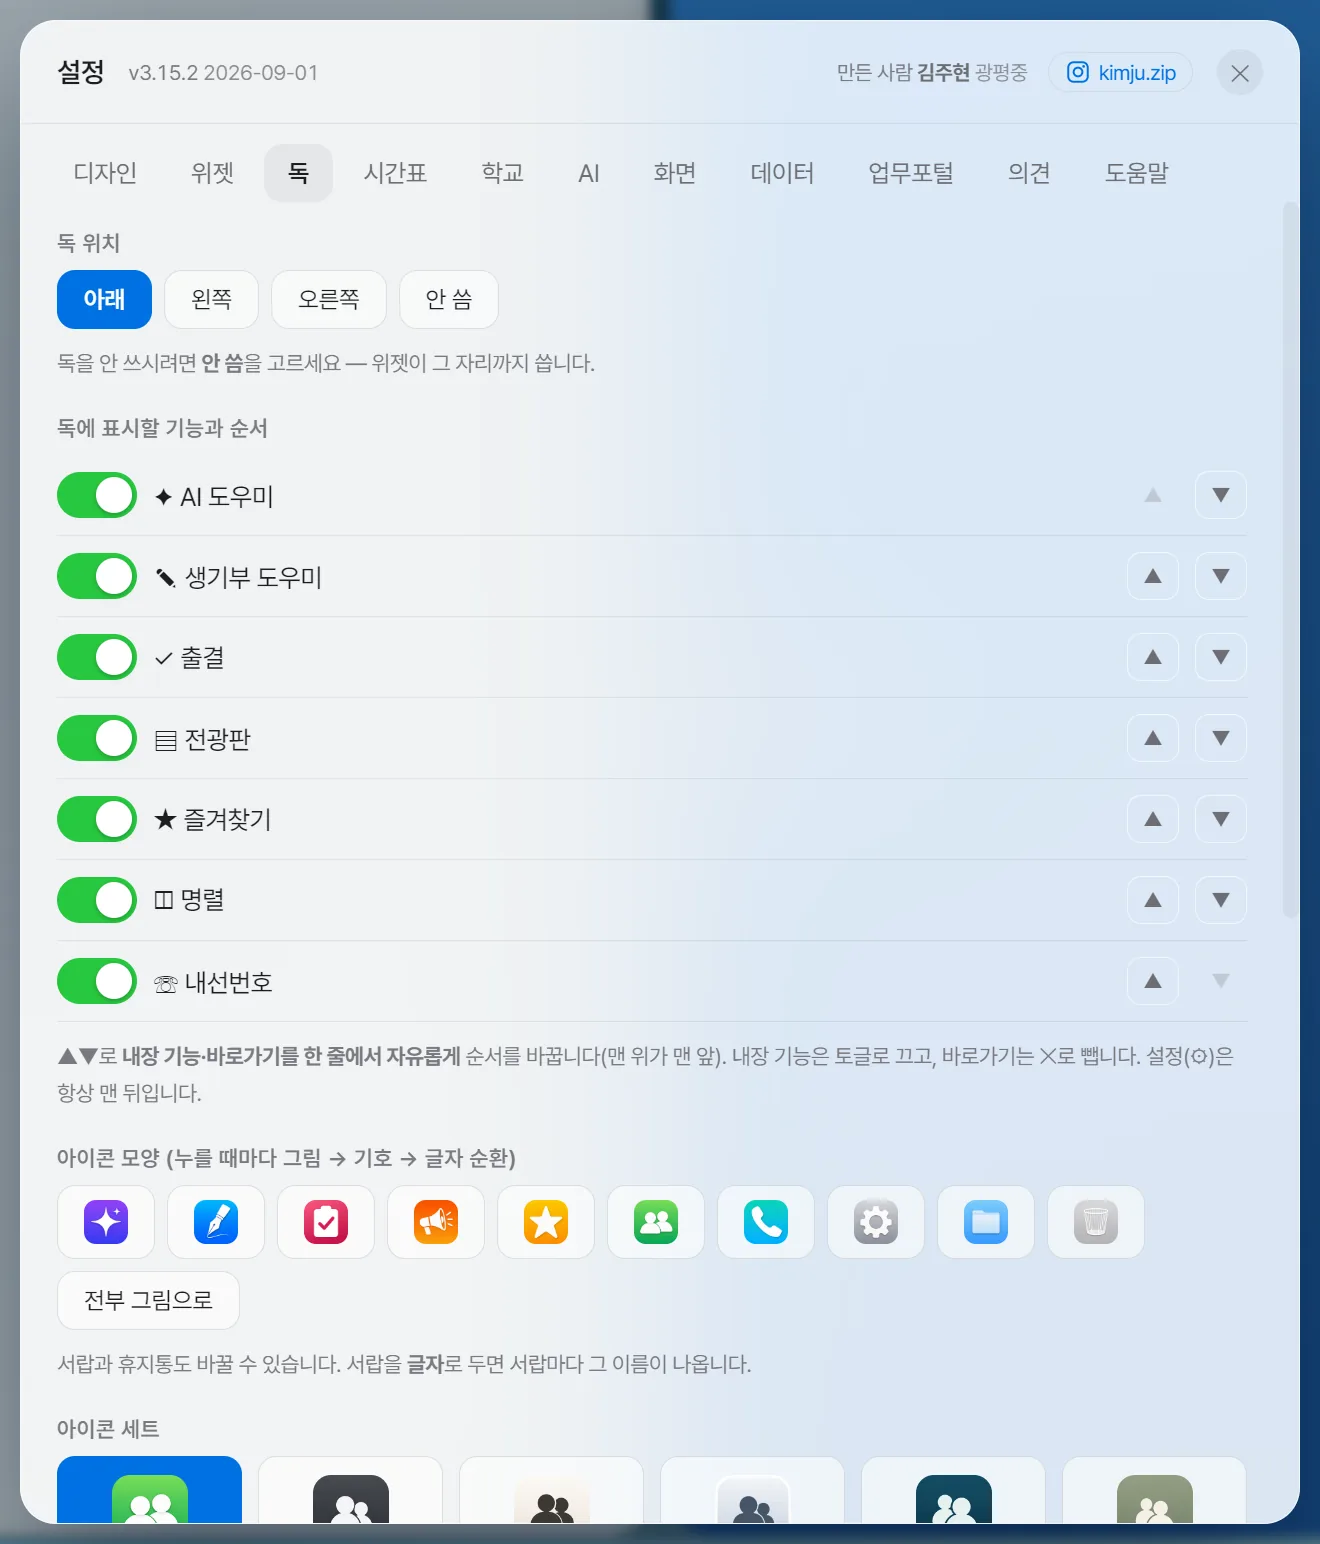
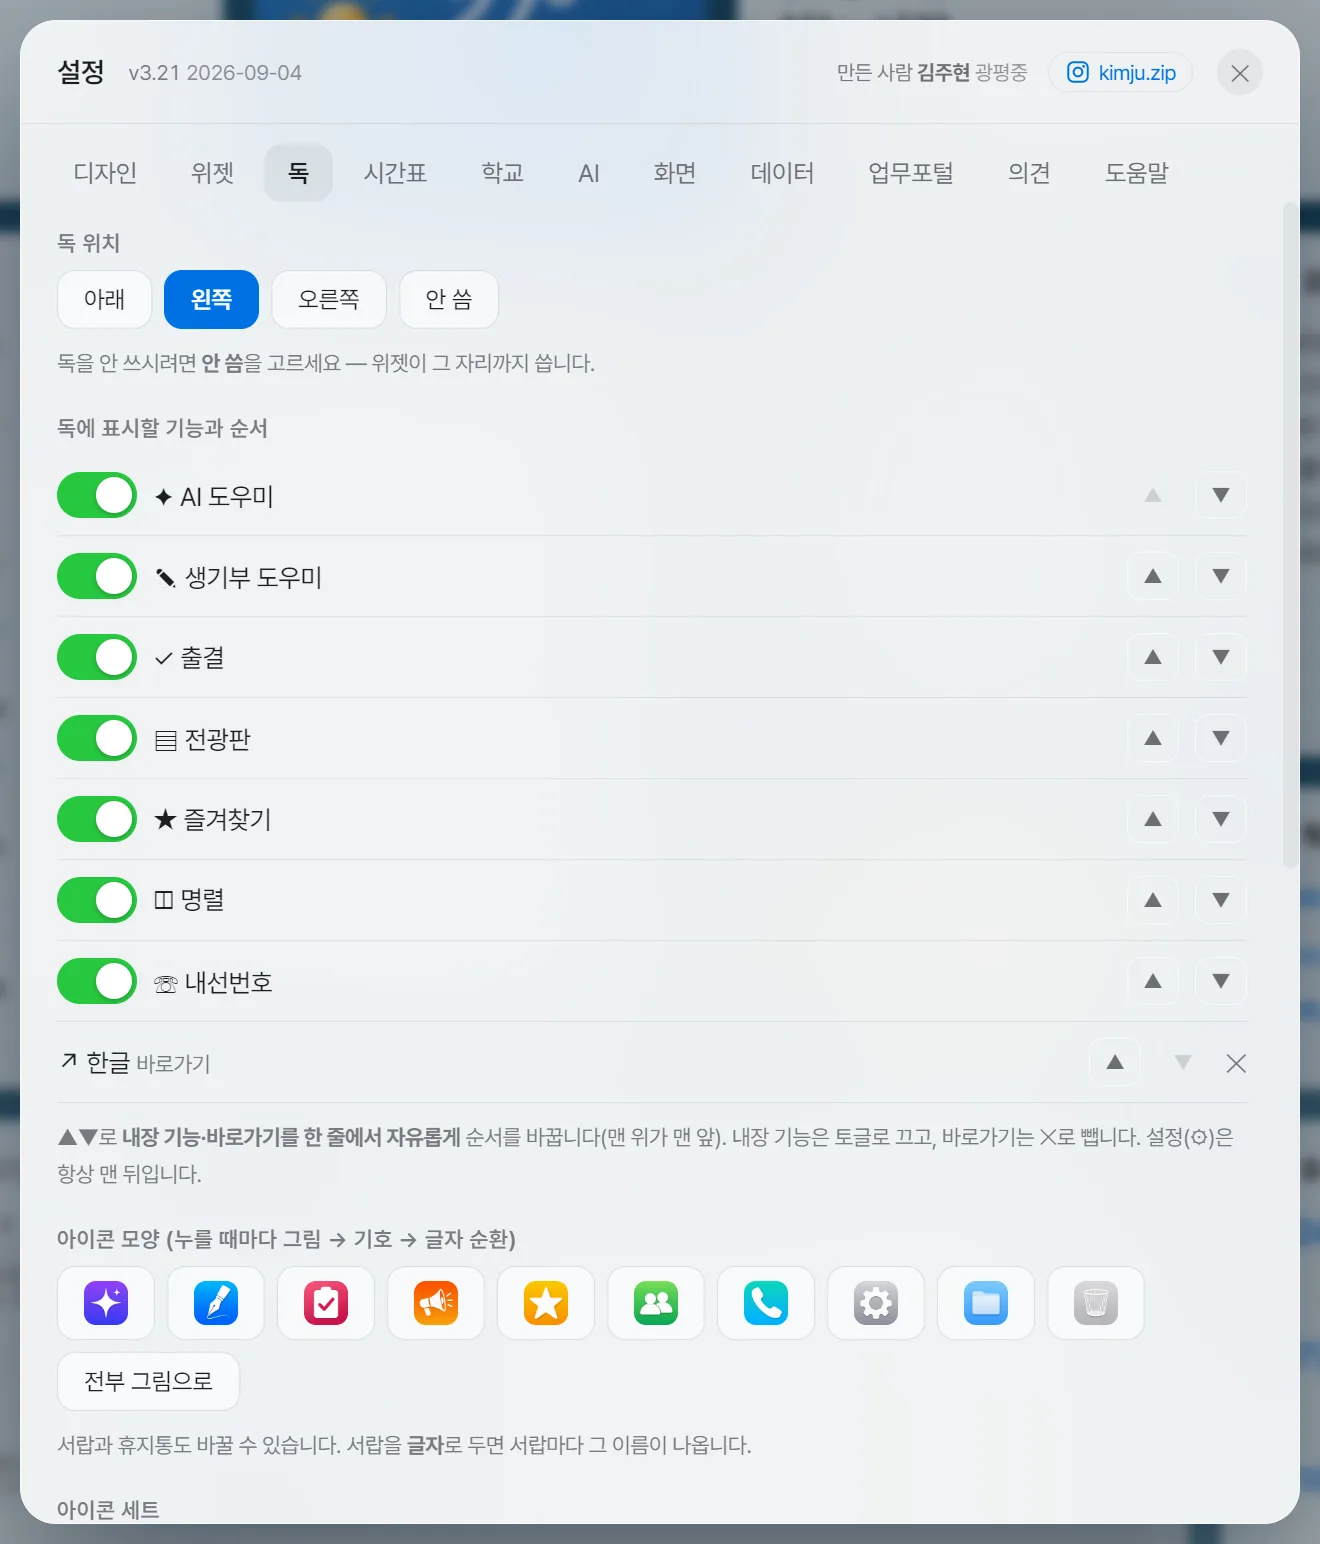
TD2 가이드 — 웨일 고침·새 설정 셋 추가, 설정 그림의 판 번호 갱신 (형님 지적)
일지를 두 줄로 줄이면서 **웨일 권한 창 고침을 빼 버렸다** — 다른 선생님 제보라
더 들어가야 하는 것이었다. 되살리고 «그 밖에» 한 줄도 넣었다.

· 업무포털 설명에 브라우저가 «크롬·엣지»로만 적혀 있었다 → **크롬·엣지·웨일**
· 「이 기능 있나요」에 새 설정 셋 — 시간표 칸에 배울 내용 함께 보기 · 과목이 다를 때
  어느 쪽을 앞세울지 · 진도를 안내문에서 채우기 (112개)
· 설정 그림 11장의 판 번호가 **v3.15.2로 굳어 있었다** — 캡처 하네스가 손으로 적어 둔
  값을 쓰고 있었다. package.json에서 읽게 고치고 다시 찍었다(v3.21 · 2026-09-04).

diff --git a/td2/index.html b/td2/index.html
@@ -514,6 +514,9 @@
               <div class="fx" data-k="시간표 적기 과목 입력 칸"><span class="fn">시간표 칸에 과목 적기</span><span class="fw">칸을 <b>클릭</b>하면 그 자리에서 입력칸이 열립니다(12자까지, 「1-3 체육」처럼)</span></div>
               <div class="fx" data-k="색칠 색깔 칸 우클릭 겸무 회의"><span class="fn">시간표 칸 색칠하기 <span class="ftag hid">숨은 자리</span></span><span class="fw">칸에 <b>우클릭</b> → 10가지 색. 겸무·전담·회의처럼 반으로 안 갈리는 시간을 눈에 띄게</span></div>
               <div class="fx" data-k="반별 색 자동 색깔 같은 반"><span class="fn">같은 반은 같은 색으로 <span class="ftag off">기본 꺼짐</span></span><span class="fw">설정 [시간표] → <b>반별 색상</b></span></div>
+              <div class="fx" data-k="주간학습안내 시간표에 함께 배울 내용 얹기"><span class="fn">시간표 칸에 배울 내용 함께 보기</span><span class="fw">설정 [시간표] → <b>주간학습안내 내용 함께 보기</b> — 안내문을 AI로 읽어 둔 주에만 나옵니다. <b>지금 이 시간</b> 카드에도 한 줄 뜹니다</span></div>
+              <div class="fx" data-k="과목이 다를 때 시간표 안내문 우선순위"><span class="fn">과목이 다를 때 어느 쪽을 앞세울지</span><span class="fw">설정 [시간표] → <b>└ 과목이 다를 때</b> — [시간표만 / 둘 다 보기 / 안내문 먼저]. 어느 쪽을 골라도 <b>시간표에 적어 둔 내용은 안 바뀝니다</b></span></div>
+              <div class="fx" data-k="진도 안내문에서 채우기 주간학습 차시"><span class="fn">진도를 안내문에서 채우기</span><span class="fw">진도 큰 창 → <b>📖 안내문에서 채우기</b> — 이미 적어 둔 칸은 건드리지 않고, 무엇을 채울지 보여 준 뒤에만 씁니다</span></div>
               <div class="fx" data-k="토요일 일요일 주말 수업 방과후"><span class="fn">주간 시간표에 토·일 칸 <span class="ftag off">기본 꺼짐</span></span><span class="fw">설정 [시간표] → 주말 수업(토요일 칸·일요일 칸을 따로 켭니다)</span></div>
               <div class="fx" data-k="오늘 시간표 세로 하루 크게"><span class="fn">오늘 시간표만 크게 <span class="ftag off">기본 꺼짐</span></span><span class="fw">설정 [위젯] → <b>오늘 시간표</b>를 켜세요 — 오늘 하루만 세로로 크게 폅니다(교시 시각 포함)</span></div>
               <div class="fx" data-k="교시 시각 쉬는 시간 시정 수기 직접"><span class="fn">교시 시각 직접 정하기</span><span class="fw">설정 [시간표] → 교시 시각 <b>[수기 입력]</b> — 쉬는 시간이 교시마다 다른 학교(1교시 뒤 15분, 2교시 뒤 10분)는 여기서 맞춥니다</span></div>
@@ -622,6 +625,8 @@
             <ul>
               <li><b>주간학습안내</b>(초등) — 매주 받는 안내문을 올려 두고 원본 그대로 보거나, AI가 표까지 읽어 <b>하루·주간·과목별</b>로 봅니다. 시간표·진도와도 이어집니다</li>
               <li><b>출결 카드</b> — 담임반 출결의 특이사항만 바탕화면에 늘 세웁니다</li>
+              <li><b>웨일</b>에서 업무포털에 들어갈 때마다 뜨던 <b>«다른 앱·서비스 액세스» 창</b>을 고쳤습니다 — 허용해도 다음번에 또 뜨던 문제입니다</li>
+              <li>그 밖에 — 새 버전 알림에 <b>**</b> 기호가 날것으로 보이던 것, 카드를 켜도 화면에 안 나타나던 것을 고쳤습니다</li>
             </ul>
           </div>
 
@@ -1881,12 +1886,12 @@
           <div><h2>업무포털 자동 로그인</h2><p>컴퓨터를 켜면 업무포털에 로그인된 창을 열어 둡니다. <b>쓰실 분만</b> 켜세요.</p></div>
         </div>
         <p class="body">설정 → <strong>[업무포털]</strong> 탭에서 켭니다. 켜 두면 컴퓨터를 켠 뒤
-          <strong>크롬(또는 엣지) 창이 하나 열리고</strong>, 인증서 로그인 → 비밀번호 입력까지 대신 해 둡니다.
+          <strong>크롬(또는 엣지·웨일) 창이 하나 열리고</strong>, 인증서 로그인 → 비밀번호 입력까지 대신 해 둡니다.
           끝나면 그 창은 그대로 두니 바로 업무 보시면 됩니다. <strong>기본은 꺼져 있습니다.</strong></p>
         <div class="steps">
           <div class="step"><h4>1. 켜기</h4><p>설정 → <strong>[업무포털]</strong> → 맨 위 스위치를 켭니다.</p></div>
           <div class="step"><h4>2. 어디에 로그인할지</h4><p><strong>나이스</strong> 또는 <strong>K-에듀파인</strong>을 고릅니다.</p></div>
-          <div class="step"><h4>3. 교육청 · 인증서</h4><p>교육청을 고르고, <strong>인증서 아이디</strong>와 <strong>인증서 비밀번호</strong>를 넣습니다. 브라우저(크롬·엣지)도 고릅니다. 전남·광주는 포털이 합쳐져 <strong>전남광주통합특별시교육청</strong> 한 줄로 나옵니다.</p></div>
+          <div class="step"><h4>3. 교육청 · 인증서</h4><p>교육청을 고르고, <strong>인증서 아이디</strong>와 <strong>인증서 비밀번호</strong>를 넣습니다. 브라우저(<strong>크롬 · 엣지 · 웨일</strong>)도 고릅니다. 전남·광주는 포털이 합쳐져 <strong>전남광주통합특별시교육청</strong> 한 줄로 나옵니다.</p></div>
           <div class="step"><h4>4. 확인</h4><p><strong>[지금 한 번 해 보기]</strong>를 눌러 정말 되는지 봅니다. 잘 되면 다음부터는 컴퓨터를 켤 때 알아서 합니다.</p></div>
           <div class="step"><h4>5. 바탕화면 버튼 <span style="font-size:.8em;opacity:.7">(v2.9.6)</span></h4><p><strong>설정 → [위젯] → 업무포털 로그인</strong>을 켜면(기본 꺼짐) 바탕화면에 버튼 카드가 하나 붙습니다. 필요할 때 <strong>눌러서 언제든</strong> 열 수 있어요.</p></div>
         </div>
